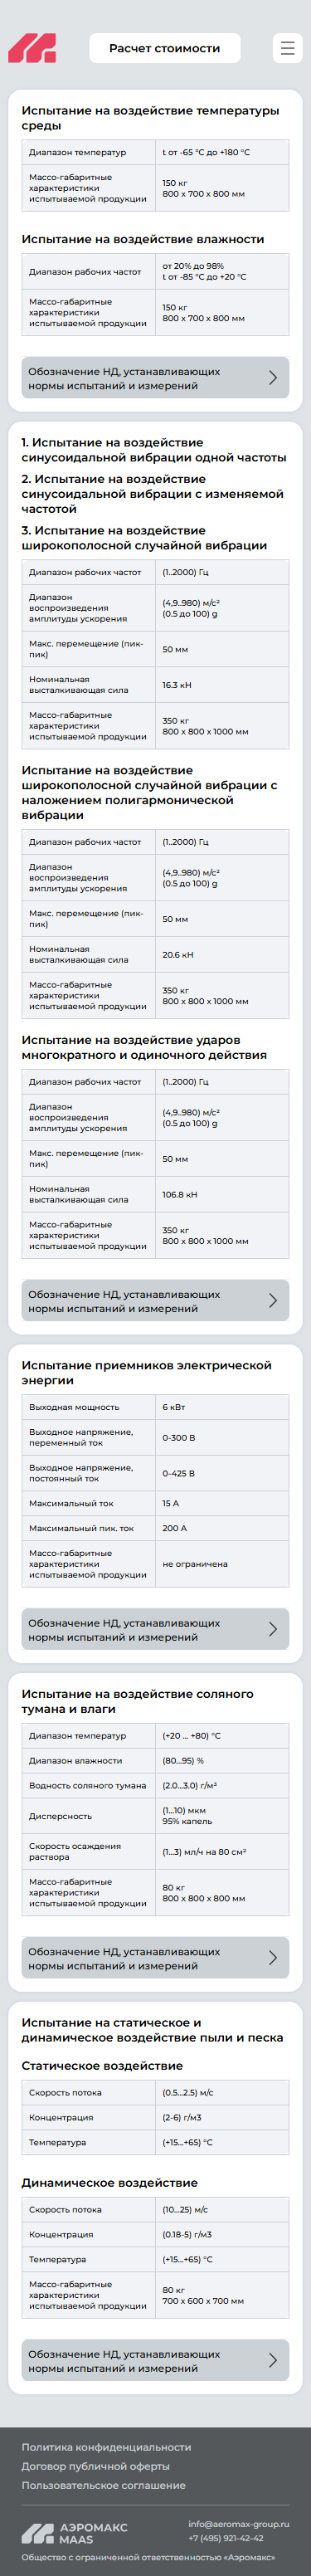
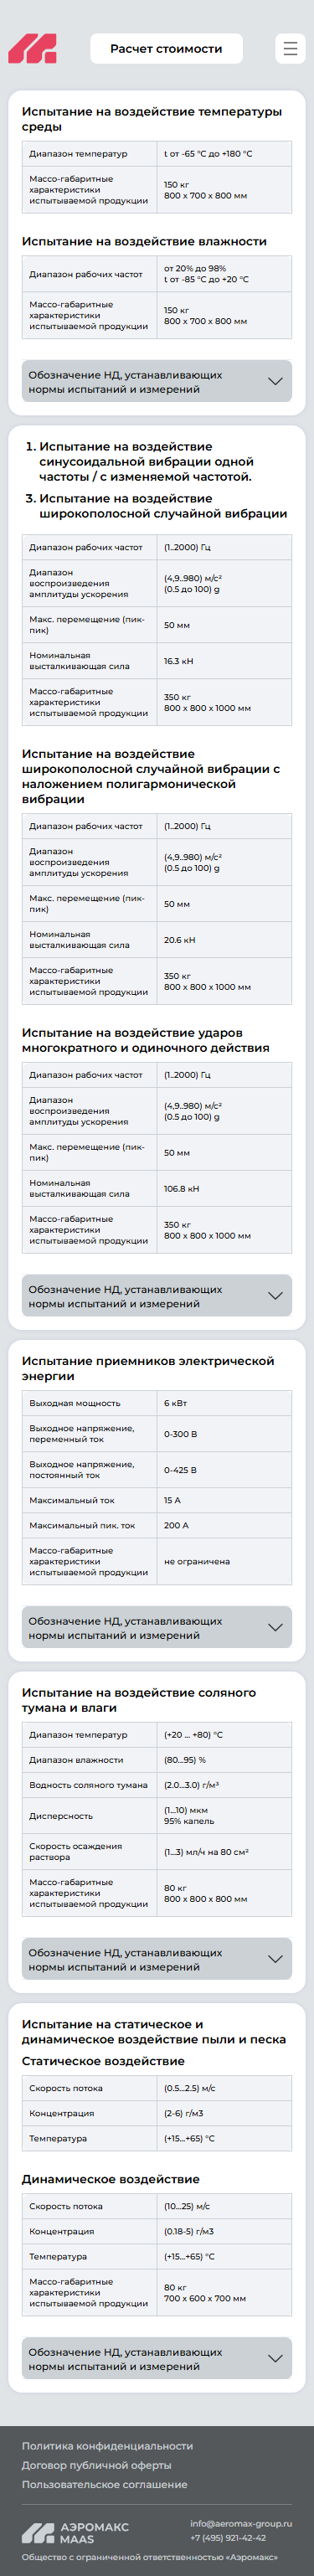
Enhance TestHumidity component for improved mobile layout and content organization
- Integrated responsive design using useWindowSize and computed properties in TestHumidity.vue to adapt the layout for mobile devices.
- Added mobile-specific normative documents and adjusted the template structure to conditionally render content based on screen size, enhancing user experience on mobile.
- Updated CSS styles to improve visual organization and responsiveness, particularly for mobile views.
- Updated build-info.json with the latest build date and git hash for accurate version tracking.

These changes significantly enhance the user experience on mobile devices and ensure that the TestHumidity component is well-structured and visually appealing.

diff --git a/src/components/sections/testing/TestHumidity.vue b/src/components/sections/testing/TestHumidity.vue
@@ -1,5 +1,9 @@
 <script setup lang="ts">
-import { ref } from 'vue'
+import { computed, ref } from 'vue'
+import { useWindowSize } from '@vueuse/core'
+
+const { width } = useWindowSize()
+const isMobile = computed(() => width.value < 768)
 
 const openedNormativeItems = ref<string[]>([])
 
@@ -15,10 +19,25 @@ const normativeDocuments = [
   'IEC60945',
   'ГОСТ РВ 30630.2.5-2013',
 ]
+
+const mobileNormativeDocuments = [
+  'ГОСТ РВ 20.57.306-98',
+  'ГОСТ РВ 0020-57.306-2019',
+  'ГОСТ РВ 20.57.406-81',
+  'ГОСТ РВ 30630.2.5-2013',
+  'ГОСТ 28234-89',
+  'ГОСТ 28207-89',
+  'КТ-160',
+  'ГОСТ Р 53616-2009',
+  'ГОСТ Р 53618-2009',
+  'RTCA DO-160',
+  'IEC60945',
+]
 </script>
 
 <template>
-  <section class="section-basic humidity-section">
+  <!-- https://www.figma.com/design/0JRYgu37H4xKjqliiJLvI1/MaaS-Frontend--Copy-?node-id=4510-3884 -->
+  <section class="section-basic humidity-section" :class="{ 'humidity-section--mobile': isMobile }">
     <div class="technical-requirements">
       <div class="uslugi-table-title">Испытание на воздействие соляного тумана и влаги</div>
 
@@ -58,7 +77,8 @@ const normativeDocuments = [
               <td>
                 80 кг
                 <br />
-                800 x 800 x 800 мм
+                <template v-if="isMobile">800 х 800 х 800 мм</template>
+                <template v-else>800 x 800 x 800 мм</template>
               </td>
             </tr>
           </tbody>
@@ -73,9 +93,9 @@ const normativeDocuments = [
             Обозначение НД, устанавливающих нормы испытаний и измерений
           </span>
         </template>
-        <div class="normative-content">
+        <div class="normative-content" :class="{ 'normative-content--mobile': isMobile }">
           <span
-            v-for="item in normativeDocuments"
+            v-for="item in isMobile ? mobileNormativeDocuments : normativeDocuments"
             :key="item"
             class="normative-chip"
           >
@@ -209,35 +229,147 @@ const normativeDocuments = [
   line-height: 1.2;
 }
 
-@media (max-width: 768px) {
-  .tests-list {
-    font-size: 22px;
-  }
+.humidity-section--mobile .technical-requirements {
+  display: flex;
+  flex-direction: column;
+  gap: 8px;
+  margin: 0;
+}
 
-  .requirements-table th {
-    font-size: 16px;
-  }
+.humidity-section--mobile .uslugi-table-title {
+  margin: 0;
+  font-family: 'Montserrat-SemiBold', sans-serif;
+  font-size: 14px;
+  font-weight: 600;
+  line-height: normal;
+  color: #000000;
+}
 
-  .normative-collapse :deep(.el-collapse-item__header) {
-    padding: 10px 12px;
-  }
+.humidity-section--mobile .requirements-table-wrapper {
+  margin: 0;
+  border: none;
+  border-radius: 0;
+  overflow: visible;
+  background-color: transparent;
+}
 
-  .normative-collapse :deep(.el-collapse-item__content) {
-    padding: 0 12px 12px;
-  }
+.humidity-section--mobile .requirements-table colgroup {
+  display: none;
+}
 
-  .normative-title {
-    font-size: 20px;
-  }
+.humidity-section--mobile .requirements-table {
+  width: 100%;
+  border-collapse: collapse;
+  table-layout: fixed;
+}
 
-  .normative-content {
-    grid-template-columns: repeat(2, minmax(0, 1fr));
-    gap: 8px;
-  }
+.humidity-section--mobile .requirements-table td {
+  padding: 8px;
+  border: 1px solid var(--button-bg);
+  font-family: 'Montserrat-Medium', sans-serif;
+  font-size: 10px;
+  font-weight: 500;
+  line-height: normal;
+  color: #000000;
+  vertical-align: middle;
+  word-break: break-word;
+  background-color: #f2f3f7;
+}
 
-  .normative-chip {
-    font-size: 14px;
-    padding: 5px 10px;
-  }
+.humidity-section--mobile .requirements-table tbody tr:first-child td:first-child {
+  border-radius: 8px 0 0 0;
+}
+
+.humidity-section--mobile .requirements-table tbody tr:first-child td:last-child {
+  border-radius: 0 8px 0 0;
+}
+
+.humidity-section--mobile .requirements-table tbody tr:last-child td:first-child {
+  border-radius: 0 0 0 8px;
+}
+
+.humidity-section--mobile .requirements-table tbody tr:last-child td:last-child {
+  border-radius: 0 0 8px 0;
+}
+
+.humidity-section--mobile .normative-collapse {
+  margin: 0;
+  width: 100%;
+}
+
+.humidity-section--mobile .normative-collapse :deep(.el-collapse) {
+  border: none;
+}
+
+.humidity-section--mobile .normative-collapse :deep(.el-collapse-item__header) {
+  display: flex;
+  align-items: center;
+  justify-content: space-between;
+  min-height: auto;
+  height: auto;
+  padding: 8px;
+  border: none;
+  border-radius: 8px;
+  background-color: #cbd1d5;
+  line-height: normal;
+}
+
+.humidity-section--mobile .normative-collapse :deep(.el-collapse-item.is-active .el-collapse-item__header) {
+  border-radius: 8px 8px 0 0;
+}
+
+.humidity-section--mobile .normative-collapse :deep(.el-collapse-item__arrow) {
+  margin: 0 0 0 8px;
+  font-size: 24px;
+  transform: rotate(90deg);
+}
+
+.humidity-section--mobile .normative-collapse :deep(.el-collapse-item.is-active .el-collapse-item__arrow) {
+  transform: rotate(-90deg);
+}
+
+.humidity-section--mobile .normative-collapse :deep(.el-collapse-item__wrap) {
+  border: none;
+  border-radius: 0 0 8px 8px;
+  background-color: #cbd1d5;
+}
+
+.humidity-section--mobile .normative-collapse :deep(.el-collapse-item__content) {
+  padding: 0 8px 8px;
+}
+
+.humidity-section--mobile .normative-title {
+  flex: 1 1 0;
+  min-width: 0;
+  font-family: 'Montserrat-Medium', sans-serif;
+  font-size: 12px;
+  font-weight: 500;
+  line-height: normal;
+  color: #000000;
+  word-break: break-word;
+}
+
+.humidity-section--mobile .normative-content--mobile {
+  display: grid;
+  grid-template-columns: repeat(2, minmax(0, 1fr));
+  column-gap: 0;
+  row-gap: 4px;
+}
+
+.humidity-section--mobile .normative-content--mobile .normative-chip {
+  display: flex;
+  flex-direction: column;
+  justify-content: center;
+  padding: 8px 0;
+  border-bottom: 1px solid #cbd1d5;
+  border-radius: 0;
+  background-color: transparent;
+  font-family: 'Montserrat-Medium', sans-serif;
+  font-size: 10px;
+  font-weight: 500;
+  line-height: normal;
+  color: #000000;
+  word-break: break-word;
+  white-space: nowrap;
 }
 </style>